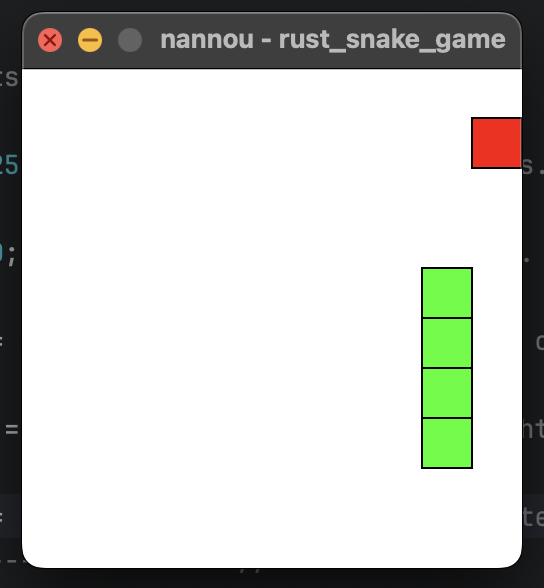
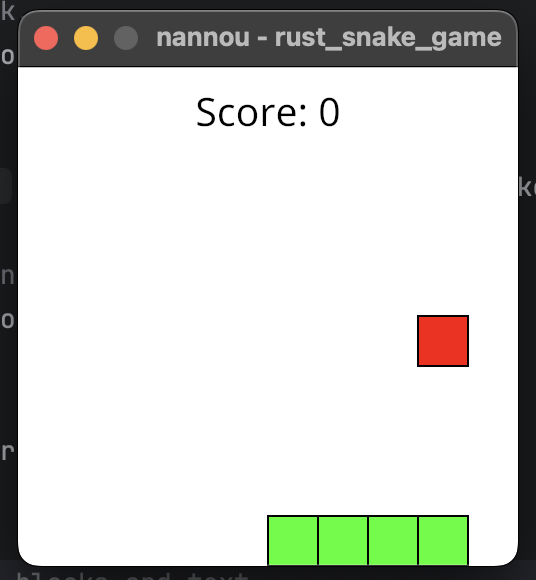
add score

diff --git a/src/main.rs b/src/main.rs
@@ -7,7 +7,7 @@ const BLOCK_SIZE: u32 = 25; // Size of each block in pixels.
 const GRID_SIZE: u32 = 10; // Number of blocks in the grid.
 const CLIENT_WIDTH: u32 = BLOCK_SIZE * GRID_SIZE; // Width of the window.
 const CLIENT_HEIGHT: u32 = BLOCK_SIZE * GRID_SIZE; // Height of the window.
-const FRAMES_COUNT: u64 = 300; // Number of frames to update the snake game.
+const FRAMES_COUNT: u64 = 10; // Number of frames to update the snake game.
 //--------------------------------------//
 
 
@@ -81,6 +81,9 @@ fn view(app: &App, _model: &Model, frame: Frame) {
     // Draw the food block.
     draw_block(&draw, &_model.snake_game.food.block);
 
+    // Draw score.
+    draw_text(&draw, &format!("Score: {}", _model.snake_game.score), 0.0, CLIENT_HEIGHT as f32 / 2.0 - 20.0);
+
     // Clear the background to white.
     draw.background().color(WHITE);
 
@@ -88,7 +91,7 @@ fn view(app: &App, _model: &Model, frame: Frame) {
     draw.to_frame(app, &frame).unwrap();
 }
 
-// Helper function to draw a block.
+// Helper functions to ui blocks and text.
 fn draw_block(draw: &Draw, block: &Block) {
     draw.rect()
         .stroke(BLACK)
@@ -99,4 +102,11 @@ fn draw_block(draw: &Draw, block: &Block) {
         )
         .w_h(block.size, block.size)
         .color(block.color);
+}
+
+fn draw_text(draw: &Draw, text: &str, x: f32, y: f32) {
+    draw.text(text)
+        .x_y(x, y)
+        .font_size(20)
+        .color(BLACK);
 }

diff --git a/src/lib.rs b/src/lib.rs
@@ -13,6 +13,7 @@ pub struct SnakeGame {
     pub width: u32,
     pub height: u32,
     pub food: Food,
+    pub score: u32,
 }
 
 impl SnakeGame {
@@ -37,6 +38,7 @@ impl SnakeGame {
             width,
             height,
             food: new_food,
+            score: 0,
         })
     }
 
@@ -82,6 +84,7 @@ impl SnakeGame {
         }
 
         if self.check_collision_with_food(&new_head) {
+            self.score += 1;
             self.food = Food::new(self.width, self.height, self.block_size);
         } else {
             self.snake.body.remove(0);
@@ -109,6 +112,7 @@ impl SnakeGame {
         self.snake = Snake::new(self.block_size as f32);
         self.direction = Direction::Right;
         self.food = Food::new(self.width, self.height, self.block_size);
+        self.score = 0;
     }
 }
 
